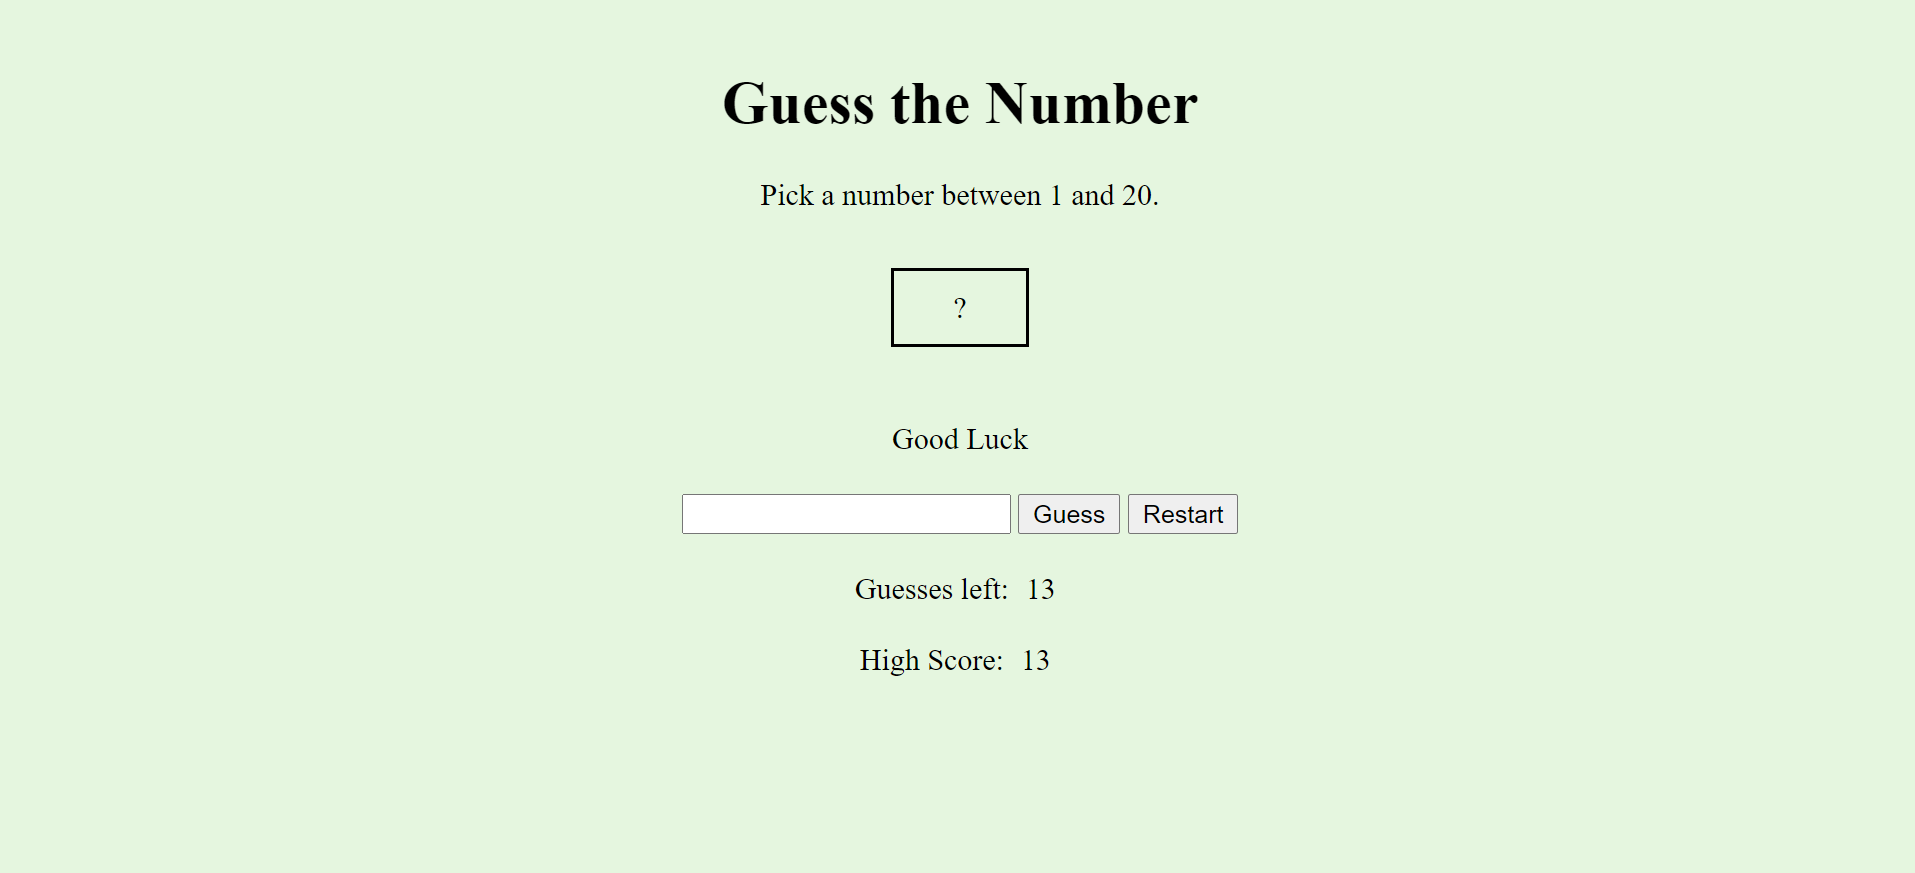
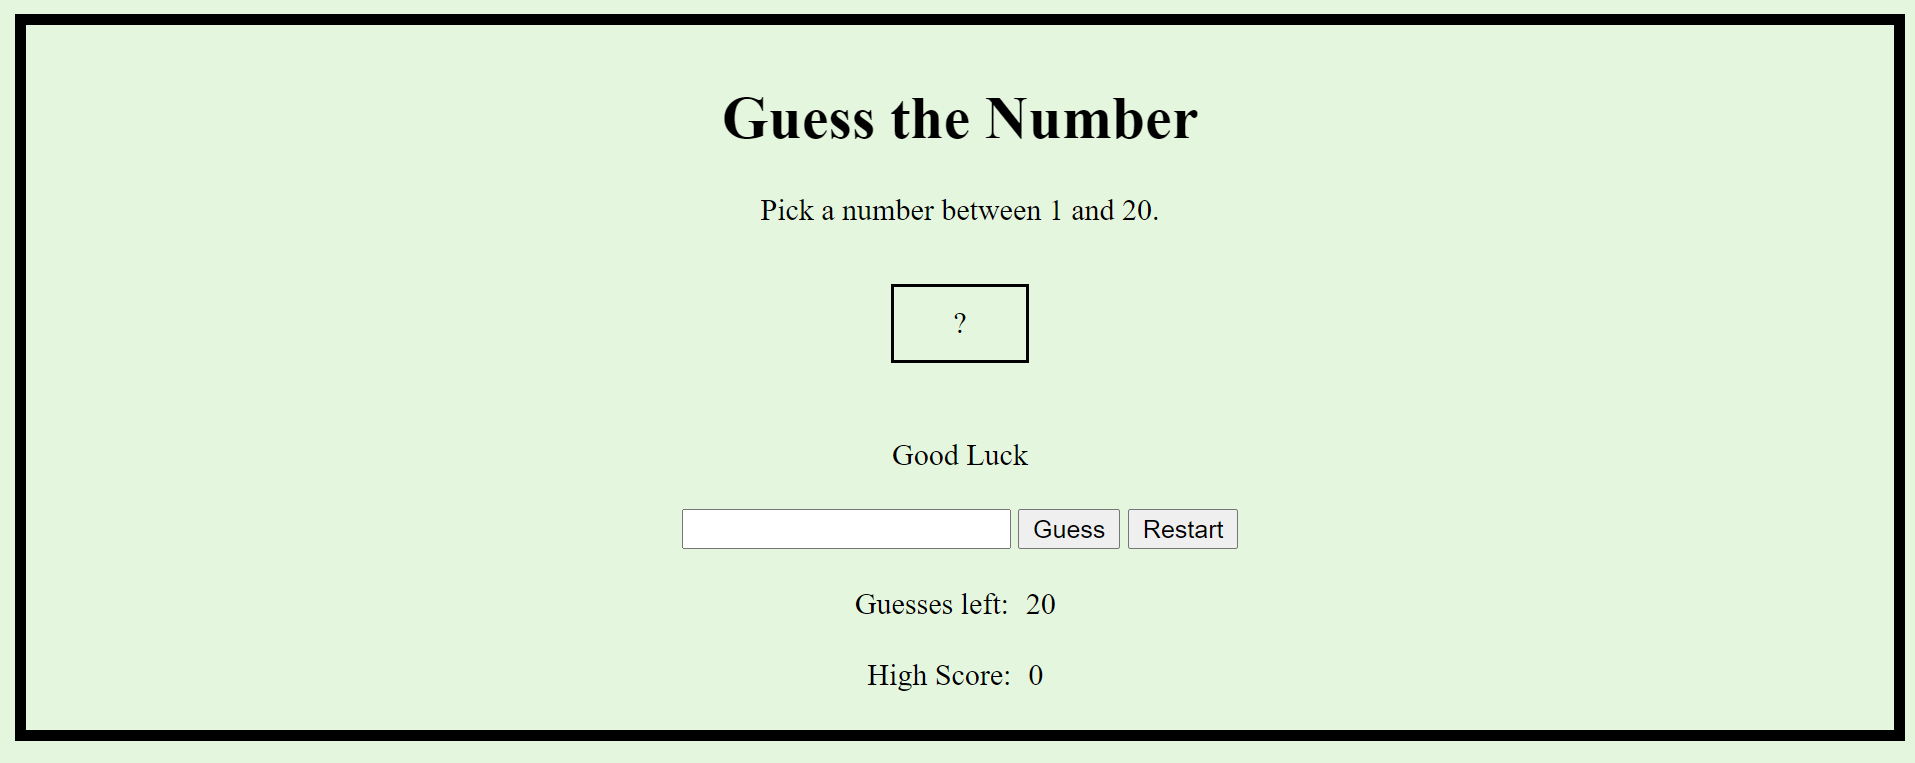
Imageupdate

diff --git a/Guessing Game/css/stylesheet.css b/Guessing Game/css/stylesheet.css
@@ -1,5 +1,7 @@
 body {
   background-color: #E5F6DF;
+  border-style: solid;
+  border-width: 6px;
 }
 
 .centerText {
